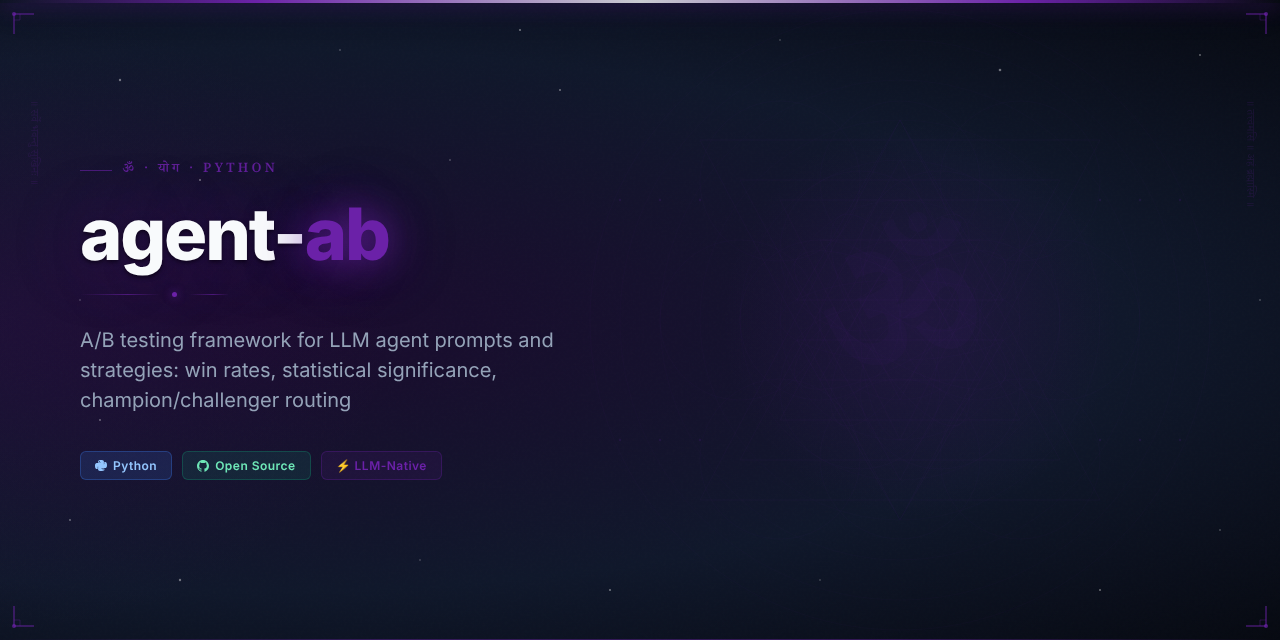
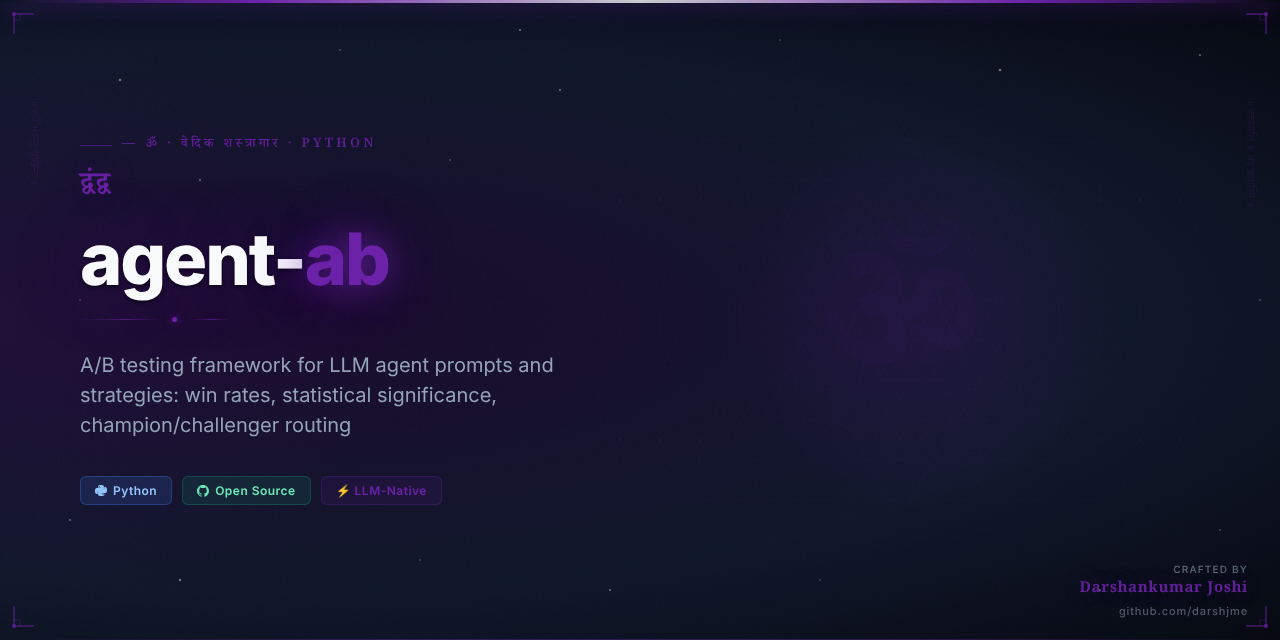
feat: add Vedic Arsenal hero image and updated README
Part of darshjme/arsenal — 100 production-grade Python libraries for LLM agents.
Vedic branding: ancient philosophy meets modern AI engineering.

diff --git a/README.md b/README.md
@@ -1,10 +1,12 @@
 <div align="center">
 
-<img src="assets/agent-ab-hero.png" alt="agent-ab — Vedic Arsenal" width="100%" />
+<img src="assets/agent-ab-hero.png" alt="agent-ab — Vedic Arsenal by Darshankumar Joshi" width="100%" />
 
 # 🔮 agent-ab
 
-### *द्वंद्व* — Dvandva — the eternal duality of A vs B
+<h3><em>द्वंद्व</em></h3>
+
+> *Dvandva — the eternal duality of A vs B*
 
 **A/B testing framework for LLM agent prompts and strategies: win rates, statistical significance, champion/challenger routing**
 
@@ -39,6 +41,19 @@ Or clone directly:
 git clone https://github.com/darshjme/agent-ab.git
 cd agent-ab
 pip install -e .
+```
+
+## How It Works
+
+```mermaid
+flowchart LR
+    A[Input] --> B[agent-ab]
+    B --> C{Process}
+    C -- Success --> D[Output]
+    C -- Error --> E[Handle / Retry]
+    E --> B
+    style B fill:#6b21a8,color:#fff
+    note["Ab — Zero Dependencies"]
 ```
 
 ## Quick Start
@@ -90,7 +105,7 @@ MIT — use freely, build freely.
 
 <div align="center">
 
-**Built with 🔮 by [Darshankumar Joshi](https://github.com/darshjme)**
+**Built with 🔮 by [Darshankumar Joshi](https://github.com/darshjme)** · [@thedarshanjoshi](https://twitter.com/thedarshanjoshi)
 
 *"कर्मण्येवाधिकारस्ते मा फलेषु कदाचन"*
 *Your right is to action alone, never to the fruits thereof.*
